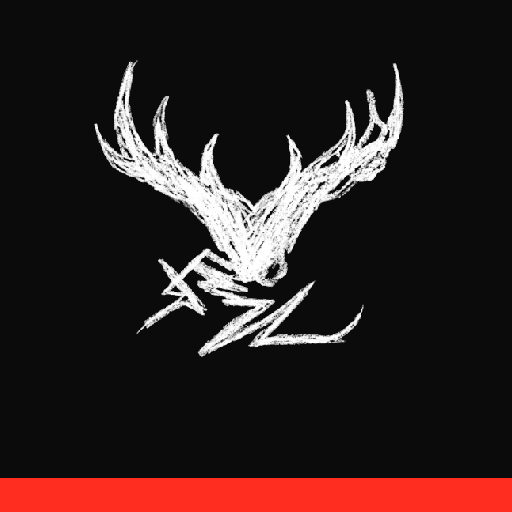
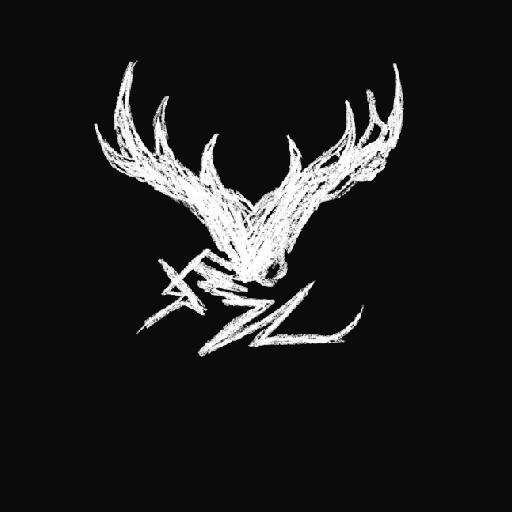
S-V2-VERSION — Écran de chargement versionné, mise à jour signalée par toast, icône PWA nettoyée
- Splash noir plein : logo cerf/aigle + « Sancho Rossinante v2.0.0 », retiré en fondu au boot
- Barre rouge supprimée à la racine (peinte dans icon.svg + PNG)
- Icône : PNG opaque, icon-maskable.png dédié (safe-zone), manifeste any/maskable séparés
- Version = source unique window.SR_VERSION (splash + Réglages)
- Mise à jour non silencieuse : toast « Recharger » (skipWaiting sur message, plus d'auto-reload)

Changed region(s): [[0.0, 0.9062, 1.0, 1.0]]

diff --git a/js/main.js b/js/main.js
@@ -19,6 +19,20 @@ import { loadPersisted } from "./storage.js";
 import { initOffline } from "./offline.js";
 import { initToast, toast } from "./toast.js";
 
+// Écran de chargement : retiré une fois l'app prête, avec une durée minimale d'affichage
+// pour éviter un flash (boot rapide) — jamais de saut de layout, fondu doux.
+const bootT0 = performance.now();
+const SPLASH_MIN_MS = 500;
+function hideSplash() {
+  const el = document.getElementById("splash");
+  if (!el) return;
+  const wait = Math.max(0, SPLASH_MIN_MS - (performance.now() - bootT0));
+  setTimeout(() => {
+    el.classList.add("splash--gone");
+    setTimeout(() => el.remove(), 450);
+  }, wait);
+}
+
 initToast();
 initUi();
 initMap();
@@ -40,22 +54,56 @@ document.getElementById("reco-criteria")?.addEventListener("click", () => {
   openFilters();
 });
 
+// ---------- Version affichée (Réglages) ----------
+const versionEl = document.getElementById("setting-version");
+if (versionEl) versionEl.textContent = `Sancho Rossinante v${window.SR_VERSION || ""}`;
+
 // ---------- PWA ----------
 if ("serviceWorker" in navigator) {
-  // Mise à jour transparente : quand un nouveau service worker prend le contrôle
-  // (déploiement), on recharge une fois pour ne jamais rester coincé sur une version
-  // en cache. Le garde `controller` évite un rechargement au tout premier lancement.
-  if (navigator.serviceWorker.controller) {
-    let reloading = false;
-    navigator.serviceWorker.addEventListener("controllerchange", () => {
-      if (reloading) return;
-      reloading = true;
-      location.reload();
+  // Mise à jour NON silencieuse : quand une nouvelle coquille est prête (SW installé en
+  // attente), on PROPOSE un toast « Recharger » au lieu de recharger d'autorité — un
+  // rechargement forcé en pleine navigation serait brutal. Le tap active le SW en attente
+  // (message SKIP_WAITING) ; le `controllerchange` qui suit recharge une seule fois.
+  // Le garde `intentionalUpdate` évite le rechargement au tout premier install (clients.claim).
+  let reloading = false;
+  let intentionalUpdate = false;
+  navigator.serviceWorker.addEventListener("controllerchange", () => {
+    if (reloading || !intentionalUpdate) return;
+    reloading = true;
+    location.reload();
+  });
+
+  let updateOffered = false;
+  const offerUpdate = (worker) => {
+    if (updateOffered || !worker) return;
+    updateOffered = true;
+    toast("Mise à jour disponible.", {
+      type: "info",
+      duration: 0,
+      action: {
+        label: "Recharger",
+        onClick: () => {
+          intentionalUpdate = true;
+          worker.postMessage({ type: "SKIP_WAITING" });
+        },
+      },
     });
-  }
+  };
+
   navigator.serviceWorker
     .register("sw.js")
-    .then((reg) => reg.update())
+    .then((reg) => {
+      // Une coquille déjà en attente (mise à jour arrivée pendant une session précédente).
+      if (reg.waiting && navigator.serviceWorker.controller) offerUpdate(reg.waiting);
+      // Une mise à jour qui s'installe pendant la session courante.
+      reg.addEventListener("updatefound", () => {
+        const nw = reg.installing;
+        nw?.addEventListener("statechange", () => {
+          if (nw.state === "installed" && navigator.serviceWorker.controller) offerUpdate(nw);
+        });
+      });
+      reg.update();
+    })
     .catch(() => {});
 }
 
@@ -98,4 +146,5 @@ loadPersisted().then(async (persisted) => {
   }
 
   loadWikiPhotos();
+  hideSplash();
 });

diff --git a/css/style.css b/css/style.css
@@ -98,6 +98,59 @@ button { color: inherit; }
 }
 .info-block-foot { font-size: 10.5px; margin-top: var(--sp-2); }
 
+/* ============ Écran de chargement (splash) ============ */
+/* Couvre tout l'écran au boot : fond noir plein, logo seul, nom + version en bas.
+   Aucune barre rouge. Retiré par main.js une fois l'app prête (fondu doux). */
+.splash {
+  position: fixed;
+  inset: 0;
+  z-index: 4000;
+  display: flex;
+  flex-direction: column;
+  align-items: center;
+  justify-content: center;
+  gap: var(--sp-4);
+  background: #0b0b0c;
+  color: #ececec;
+  transition: opacity 0.4s ease-out;
+}
+.splash-mark {
+  width: 172px;
+  height: auto;
+  /* logo-t.png est dessiné en noir sur transparent → inversé en blanc sur le fond noir,
+     même traitement que le logo du header. */
+  filter: invert(1) hue-rotate(180deg);
+  animation: splash-in 0.6s ease-out both;
+}
+.splash-mark-fb {
+  display: none;
+  width: 108px;
+  height: auto;
+  color: #ececec;
+  animation: splash-in 0.6s ease-out both;
+}
+.splash-wordmark { text-align: center; animation: splash-in 0.6s ease-out 0.08s both; }
+.splash-name {
+  font-size: 15px;
+  font-weight: 700;
+  letter-spacing: 0.02em;
+}
+.splash-ver {
+  margin-top: 4px;
+  font-size: 12px;
+  font-weight: 600;
+  color: #8f938f;
+  letter-spacing: 0.06em;
+}
+.splash--gone { opacity: 0; pointer-events: none; }
+@keyframes splash-in {
+  from { opacity: 0; transform: translateY(6px); }
+  to { opacity: 1; transform: translateY(0); }
+}
+@media (prefers-reduced-motion: reduce) {
+  .splash-mark, .splash-wordmark { animation: none; }
+}
+
 /* ============ Header ============ */
 .header {
   position: fixed;
@@ -2436,6 +2489,21 @@ main { position: fixed; inset: var(--header-h) 0 0 0; }
   transition: color 0.15s ease-out;
 }
 .toast__close:hover { color: var(--text); }
+.toast__action {
+  flex-shrink: 0;
+  background: var(--surface-2);
+  border: none;
+  color: var(--text);
+  font: inherit;
+  font-size: 12.5px;
+  font-weight: 700;
+  cursor: pointer;
+  padding: 6px 12px;
+  border-radius: var(--radius-full);
+  transition: background 0.15s ease-out, transform 0.1s ease-out;
+}
+.toast__action:hover { background: var(--surface-3); }
+.toast__action:active { transform: translateY(1px); }
 @media (prefers-reduced-motion: reduce) {
   .toast { transition: opacity 0.2s ease-out; transform: none; }
   .toast.show, .toast.leaving { transform: none; }

diff --git a/index.html b/index.html
@@ -11,7 +11,7 @@
   <link rel="stylesheet" href="https://unpkg.com/leaflet@1.9.4/dist/leaflet.css" />
   <link rel="preconnect" href="https://fonts.googleapis.com" />
   <link href="https://fonts.googleapis.com/css2?family=Manrope:wght@400;500;600;700;800&display=swap" rel="stylesheet" />
-  <link rel="stylesheet" href="css/style.css?v=534" />
+  <link rel="stylesheet" href="css/style.css?v=535" />
   <script type="importmap">
     {
       "imports": {
@@ -20,7 +20,7 @@
         "./js/state.js": "./js/state.js?v=504",
         "./js/storage.js": "./js/storage.js?v=506",
         "./js/net.js": "./js/net.js?v=501",
-        "./js/toast.js": "./js/toast.js?v=501",
+        "./js/toast.js": "./js/toast.js?v=502",
         "./js/api.js": "./js/api.js?v=502",
         "./js/photos.js": "./js/photos.js?v=516",
         "./js/weather.js": "./js/weather.js?v=526",
@@ -52,9 +52,35 @@
   <script>
     // Thème appliqué avant le premier rendu pour éviter le flash — noir par défaut
     document.documentElement.dataset.theme = localStorage.getItem("sr-theme") || "dark";
+    // Version produit — source unique lue par le splash, les Réglages et la détection de MAJ.
+    window.SR_VERSION = "2.0.0";
   </script>
 </head>
 <body>
+  <!-- Écran de chargement : fond noir, logo seul, version en bas — retiré au boot (main.js) -->
+  <div id="splash" class="splash">
+    <img src="assets/logo-t.png?v=2" alt="Sancho Rossinante" class="splash-mark"
+      onerror="this.style.display='none';document.getElementById('splash-mark-fb').style.display='block'" />
+    <svg id="splash-mark-fb" class="splash-mark-fb" viewBox="0 0 120 70" aria-hidden="true">
+      <g fill="none" stroke="currentColor" stroke-width="7" stroke-linecap="round">
+        <path d="M60 64 C54 52 44 44 20 26" />
+        <path d="M46 47 C40 38 38 28 36 14" />
+        <path d="M34 38 C28 30 24 22 20 8" />
+        <path d="M24 29 C18 24 12 20 6 16" />
+        <path d="M60 64 C66 52 76 44 100 26" />
+        <path d="M74 47 C80 38 82 28 84 14" />
+        <path d="M86 38 C92 30 96 22 100 8" />
+        <path d="M96 29 C102 24 108 20 114 16" />
+      </g>
+    </svg>
+    <div class="splash-wordmark">
+      <div class="splash-name">Sancho Rossinante</div>
+      <div class="splash-ver" id="splash-ver"></div>
+    </div>
+  </div>
+  <script>
+    document.getElementById("splash-ver").textContent = "v" + (window.SR_VERSION || "");
+  </script>
   <header class="header">
     <div class="header-brand" id="go-home" title="Accueil">
       <img src="assets/logo-t.png?v=2" alt="Sancho Rossi" class="brand-img"
@@ -551,7 +577,11 @@
 
       <div class="settings-group">
         <h3>Application</h3>
-        <p class="muted">Sancho Rossi v4 — PWA installable. Itinéraires balisés : géométrie réelle OpenStreetMap (~15 m).
+        <div class="settings-row">
+          Version
+          <span id="setting-version" class="muted">Sancho Rossinante</span>
+        </div>
+        <p class="muted">PWA installable. Itinéraires balisés : géométrie réelle OpenStreetMap (~15 m).
         Profils d'altitude : données réelles Open-Meteo. Vue 3D : relief Terrarium + imagerie Esri.
         Aucune donnée ne quitte cet appareil sans votre action.</p>
       </div>
@@ -713,6 +743,6 @@
 
   <script src="https://unpkg.com/leaflet@1.9.4/dist/leaflet.js"></script>
   <script src="js/data.js"></script>
-  <script type="module" src="js/main.js?v=523"></script>
+  <script type="module" src="js/main.js?v=524"></script>
 </body>
 </html>

diff --git a/js/toast.js b/js/toast.js
@@ -24,8 +24,11 @@ export function initToast() {
   host();
 }
 
-// toast(message, { type: "info" | "error" | "success", duration }) → fonction de fermeture.
-export function toast(message, { type = "info", duration = DEFAULT_MS } = {}) {
+// toast(message, { type, duration, action }) → fonction de fermeture.
+//   type: "info" | "error" | "success"
+//   duration: ms avant auto-fermeture ; 0 = persistant (ex. « Mise à jour disponible »)
+//   action: { label, onClick } → bouton tonal à gauche de la croix (le clic ferme puis exécute)
+export function toast(message, { type = "info", duration = DEFAULT_MS, action = null } = {}) {
   const root = host();
   const el = document.createElement("div");
   el.className = `toast toast--${type}`;
@@ -41,7 +44,19 @@ export function toast(message, { type = "info", duration = DEFAULT_MS } = {}) {
   close.setAttribute("aria-label", "Fermer");
   close.textContent = "✕";
 
-  el.append(msg, close);
+  el.append(msg);
+  if (action) {
+    const act = document.createElement("button");
+    act.className = "toast__action";
+    act.type = "button";
+    act.textContent = action.label;
+    act.addEventListener("click", () => {
+      dismiss();
+      action.onClick?.();
+    });
+    el.append(act);
+  }
+  el.append(close);
   root.appendChild(el);
 
   let timer;

diff --git a/sw.js b/sw.js
@@ -1,5 +1,5 @@
 // Sancho Rossi — service worker : coquille hors-ligne + cache des tuiles carto
-const SHELL_CACHE = "sr-shell-v38";
+const SHELL_CACHE = "sr-shell-v39";
 const TILES_CACHE = "sr-tiles-v1";
 const MAX_TILES = 1500;
 
@@ -40,6 +40,8 @@ const SHELL_FILES = [
   "js/viewer3d.js",
   "manifest.json",
   "assets/icon.svg",
+  "assets/icon-512.png",
+  "assets/icon-maskable.png",
 ];
 
 const TILE_HOSTS = [
@@ -71,9 +73,14 @@ async function matchPackTile(urlStr) {
 }
 
 self.addEventListener("install", (e) => {
-  e.waitUntil(
-    caches.open(SHELL_CACHE).then((c) => c.addAll(SHELL_FILES)).then(() => self.skipWaiting())
-  );
+  // Pas de skipWaiting() ici : une nouvelle coquille ATTEND que la page propose la mise à
+  // jour (toast « Recharger »). L'activation immédiate se fait sur message SKIP_WAITING.
+  e.waitUntil(caches.open(SHELL_CACHE).then((c) => c.addAll(SHELL_FILES)));
+});
+
+// La page (main.js) demande l'activation de la coquille en attente au clic « Recharger ».
+self.addEventListener("message", (e) => {
+  if (e.data && e.data.type === "SKIP_WAITING") self.skipWaiting();
 });
 
 self.addEventListener("activate", (e) => {

diff --git a/ROADMAP.md b/ROADMAP.md
@@ -24,7 +24,7 @@ L'interface est un objectif produit à part entière : **extrêmement intuitive,
 **Sprints v1 non livrés, résorbés ainsi :** S-CONDITIONS + S-NUIT → S-V2-VIGIE-A · S-EXPORT → S-V2-PARTAGE · S-RECALAGE → S-V2-SORTIES · S-FLYOVER → S-V2-3D-FICHE · S11/S12 → vague 6 · S-MONTEES, S-CARTES, S-PROTEGE, S-PENTE, S-PLANB → backlog, à re-trier après la vague 3.
 
 ### Vague 0 — réparations immédiates *(petits sprints, avant tout chantier lourd — la prochaine sortie ne doit pas repartir avec une nav aveugle)*
-- [ ] **S-V2-VERSION — Version visible + mise à jour détectée + icône propre.** Numéro de version unique affiché à l'écran de chargement (« Sancho Rossinante v2.x », incrémenté à chaque push) et dans Réglages ; détection d'une nouvelle coquille par le SW → toast « Mise à jour disponible — recharger » qui l'active ; icône PWA **maskable** fond noir plein (fini le rond blanc autour du logo) ; barre rouge sous le logo au chargement supprimée. Done quand : le téléphone affiche la même version que le dernier push, un déploiement se signale de lui-même par un toast qui met à jour au tap, et l'icône installée est noire, logo seul.
+- [x] **S-V2-VERSION — Version visible + mise à jour détectée + icône propre.** *(fait le 19/07/2026)* **(1) Écran de chargement** neuf (`#splash` en tête de `<body>`, CSS `.splash`) : fond noir plein, logo complet cerf/aigle (`logo-t.png` inversé en blanc, repli SVG bois), « Sancho Rossinante » + **version en bas** ; retiré en fondu au boot (`hideSplash`, durée mini 500 ms anti-flash, `prefers-reduced-motion` respecté). **(2) Barre rouge supprimée à la racine** : elle était **peinte dans l'icône** (`icon.svg` ligne 3 `rect #ff2d20` + PNG lignes 478-511) → retirée du SVG, du PNG (réécrit en pur Python, pas de Pillow) et absente du splash. **(3) Rond blanc éliminé** : le PNG est **entièrement opaque** (0 px transparent, vérifié au décodage) ; cause = `purpose:"any maskable"` **combiné** sur une icône dont le logo touchait les bords → séparé en deux entrées manifeste (`icon-512.png` = `any`, **`icon-maskable.png` neuf** = `maskable`, logo réduit à 75 % centré sur noir plein → aucun bois rogné par le masque circulaire, distance au centre 0,36 < 0,4). **(4) Version = source unique** `window.SR_VERSION` (index.html, **2.0.0**) lue par le splash et Réglages (« Sancho Rossinante v2.0.0 »). **(5) Mise à jour NON silencieuse** : l'ancien rechargement auto (brutal en nav) devient un **toast « Mise à jour disponible » + bouton « Recharger »** (`toast.js` gagne un param `action:{label,onClick}` + `duration:0` persistant) ; `sw.js` ne fait plus `skipWaiting()` à l'install (la coquille **attend**) et l'active sur message `SKIP_WAITING` ; garde `intentionalUpdate` → **aucun toast ni reload au premier install** (clients.claim). Versions : css `?v=535`, main `524`, toast `502`, SW **`sr-shell-v38 → v39`** (+ icônes dans la coquille). **Vérifié navigateur** (SW purgé, mobile 375 px) : splash rendu puis retiré (`splashInDom:false`), version affichée aux deux endroits, SW actif sans `waiting` au 1er install (pas de faux toast), **flux MAJ réel** (sw.js rendu byte-different → `reg.update()` → toast + bouton → clic → `swWaiting:true→false` + rechargement + nouvelle coquille en contrôle), **0 erreur console**. Done quand : le téléphone affiche la même version que le dernier push, un déploiement se signale de lui-même par un toast qui met à jour au tap, et l'icône installée est noire, logo seul. ✓
 - [ ] **S-V2-ZOOM — Zoom débloqué, en ligne et hors-ligne.** Cause racine de la « nav aveugle » du test terrain. (1) Sur-agrandissement au-delà du zoom natif des tuiles (`maxNativeZoom`), **plafonné à +2 niveaux** — au-delà, le flou efface les micro-détails (intersections, courbes de niveau) et donne une fausse confiance ; (2) packs corridor approfondis à **z16–17 sur 1–2 calques choisis** (pas les 7 — c'est le choix de calques qui contient le poids), avec **estimation en Mo avant téléchargement** et garde `navigator.storage.estimate()` (refus propre si le stockage manque, pas de plantage). Fait sous Leaflet — la migration vague 1 resservira les mêmes packs (URLs de tuiles identiques). Done quand : sur un pack fraîchement téléchargé, en mode avion, on zoome jusqu'à lire les lacets du sentier (~z17) sans tuile grise ; en ligne le zoom ne bute plus au plafond natif ; l'estimation annoncée avant téléchargement est honnête (±30 %).
 - [ ] **S-V2-TRACE — Tracé enfin visible sur tous les fonds.** *(retour terrain 19/07 : « l'actuel est très peu visible »)* Rendu à **liseré** (casing) façon AllTrails/Komoot : trait de couleur vive sur un halo contrasté, épaisseur revue, testé sur les 4 fonds principaux (plan, topo, satellite, sombre). Couleur laissée libre (choix Claude), mais **captures + validation utilisateur avant push** (règle établie pour l'esthétique). Done quand : le tracé se distingue au premier regard sur chaque fond, y compris écran en plein soleil (contraste fort), sans écraser la lisibilité de la carte.
 